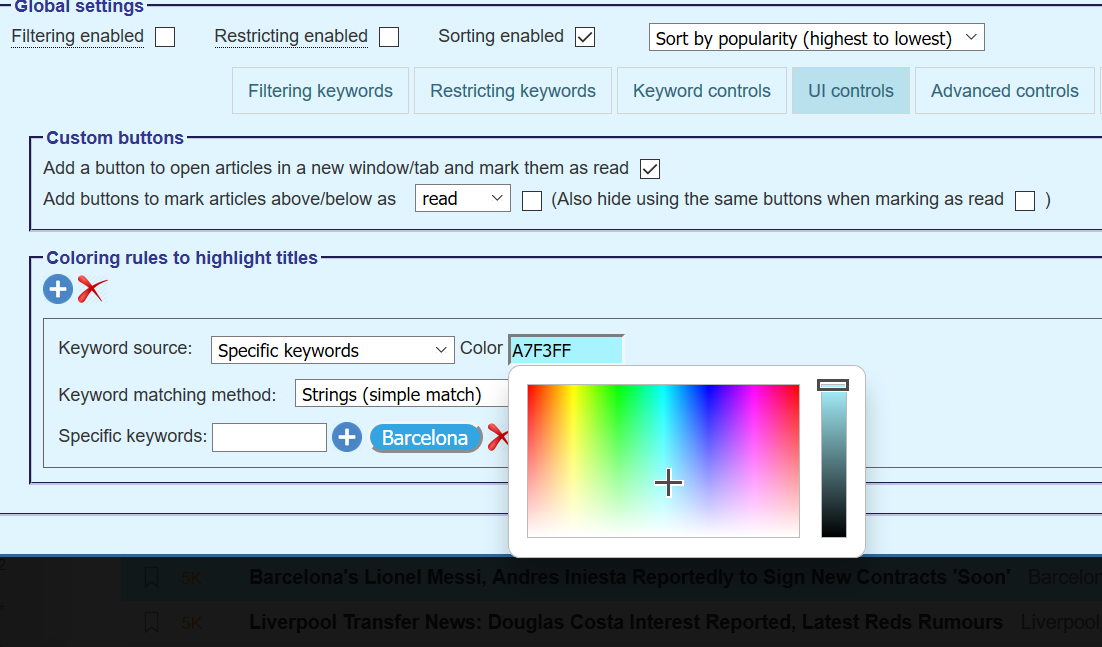
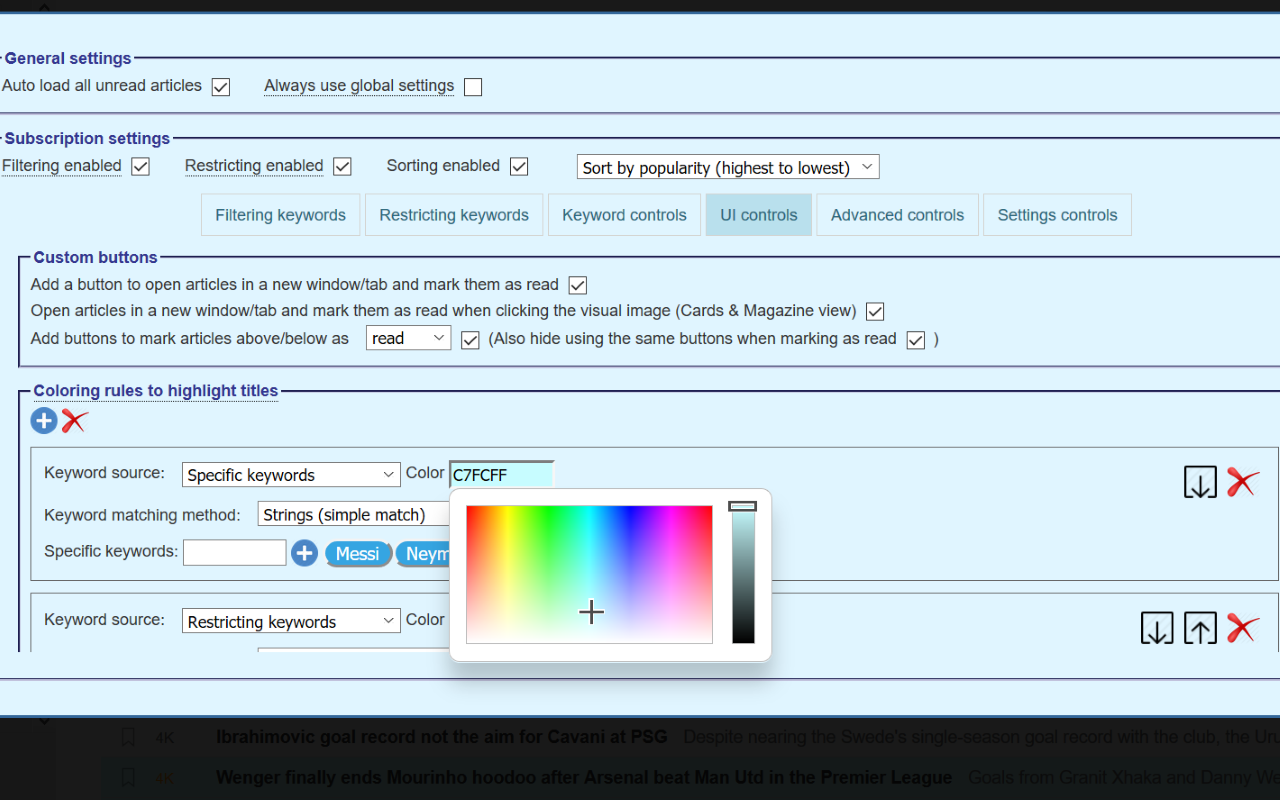
[2.8.1] Enhance coloring rules management, pop and mark as read on picture click

diff --git a/script/Feedly_filtering_and_sorting.user.js b/script/Feedly_filtering_and_sorting.user.js
@@ -14,7 +14,7 @@
 // @require     https://cdnjs.cloudflare.com/ajax/libs/jscolor/2.0.4/jscolor.min.js
 // @resource    jscolor.js https://cdnjs.cloudflare.com/ajax/libs/jscolor/2.0.4/jscolor.min.js
 // @include     *://feedly.com/*
-// @version     2.8.0
+// @version     2.8.1
 // @grant       GM_setValue
 // @grant       GM_getValue
 // @grant       GM_deleteValue
